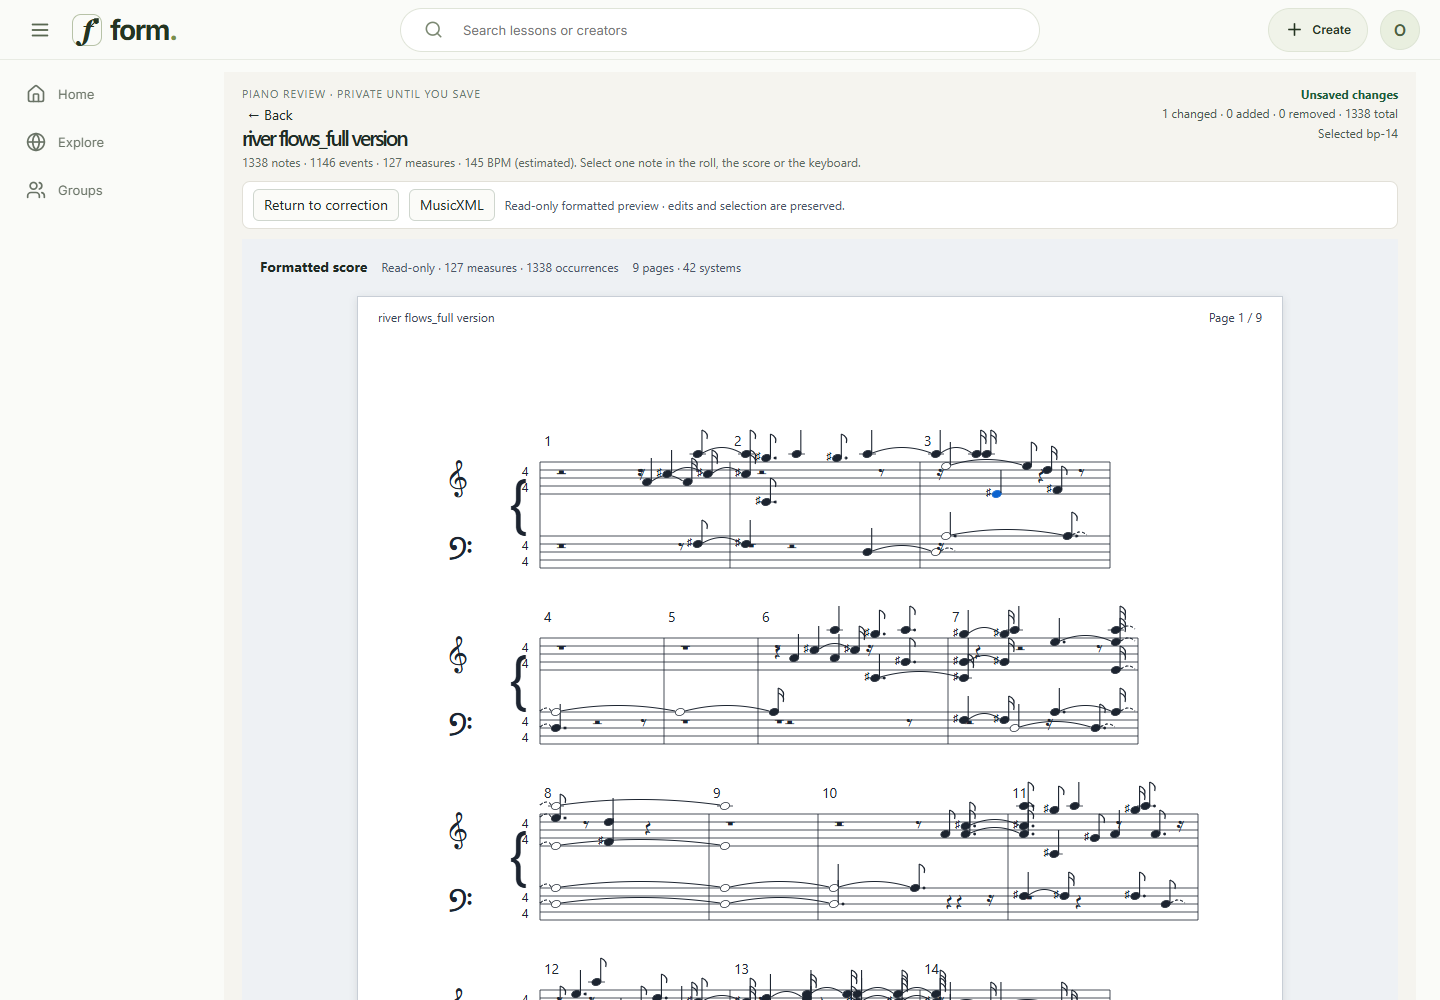
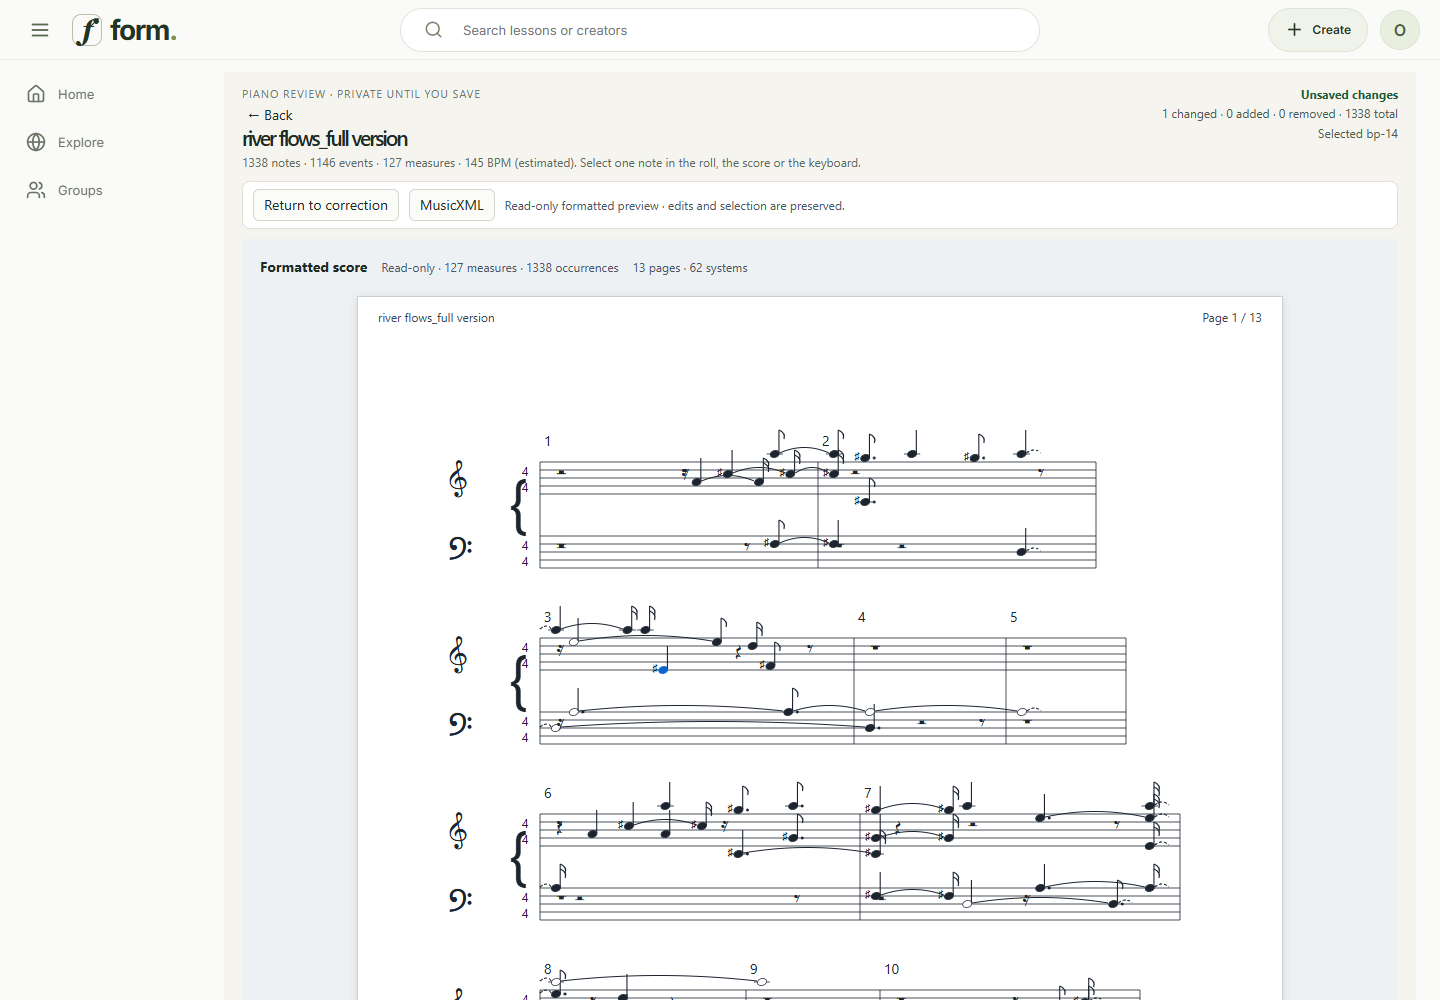
Phase 8: wider measure spacing and complete R1-R4 evidence
- Expand measure width (120-320) so dense chords/accidentals/rests breathe.
- Add notation fixtures for staff anchors, ledgers, values/flags, keys, chords,
  ties and multi-page retention.
- Add application tests for formatted read-only shortcuts, mode cancellation and
  repeated scroll/selection preservation.
- Add lifecycle script proving repeated switches preserve window/zoom/scroll,
  same video element/time/rate, play/pause/seek clock and pause-on-preview.
- Real saved-only reopen journey and exact per-measure/staff/voice MusicXML note
  assertions pass; review probes 6/6; 505 tests; 16 regressions.

diff --git a/apps/web/src/music/workspace/FormattedScore.tsx b/apps/web/src/music/workspace/FormattedScore.tsx
@@ -19,7 +19,7 @@ const BASS_TOP = 112;
 const LINE = 8;
 const STAFF_WIDTH = PAGE_WIDTH - MARGIN_X * 2;
 const CONTEXT_WIDTH = 112;
-const MIN_MEASURE = 92;
+const MIN_MEASURE = 120;
 const NOTE_RADIUS_X = 4.6;
 const NOTE_RADIUS_Y = 3.4;
 
@@ -48,7 +48,7 @@ export type FormattedLayout = {
 
 function measureWidth(segments: NotationSegment[]): number {
   const count = segments.reduce((total, segment) => total + Math.max(1, segment.notes.length), 0);
-  return Math.max(MIN_MEASURE, Math.min(190, 34 + count * 15));
+  return Math.max(MIN_MEASURE, Math.min(320, 44 + count * 18));
 }
 
 function yForPitch(spelling: string, staff: NotationStaff): number {

diff --git a/docs/qualification/piano-workspace-phase-08/phase8-handoff.md b/docs/qualification/piano-workspace-phase-08/phase8-handoff.md
@@ -44,7 +44,7 @@ Raw results: `scripts/mode-lifecycle-results.json`. The independent review probe
 - Note values are visually distinct: hollow whole/half, stemmed quarter, and standard flags for eighth–sixty-fourth. Dotted values retain dots.
 - Clef, key-signature and meter context: treble/bass clefs, key signature glyphs on both staves for sharp/flat keys (G/F fixtures verified), and stacked 4/4 meter numbers.
 - Ties use correct endpoints: outgoing continuations start at the source's right edge; incoming continuations approach the target's left edge. 238 continuation paths on the real recording.
-- Measure widths expand up to 260 units (minimum 110) for dense chords/accidentals/rests.
+- Measure widths expand up to 320 units (minimum 120) for dense chords/accidentals/rests.
 
 Compact fixtures in `formatted-score.test.tsx` cover both-staff line/space anchors, ledger notes above/below, whole/half/quarter/eighth/sixteenth values and flags, dotted values, rests, sharp/flat keys, chords and ties within/across systems. Real pages re-captured and visually inspected after the repair: `captures/formatted-real-page1.png`, `captures/formatted-real-page2.png`.
 
